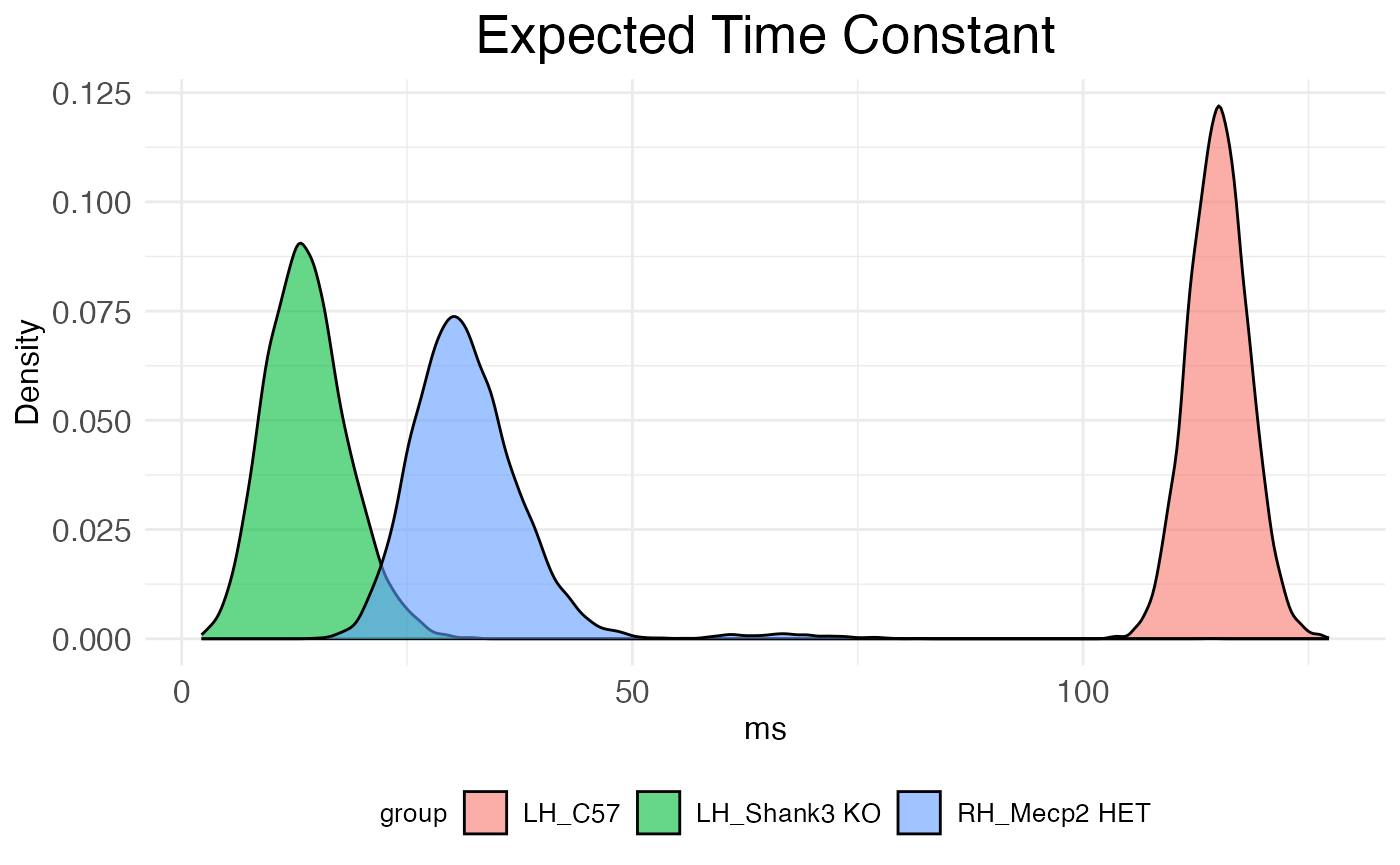
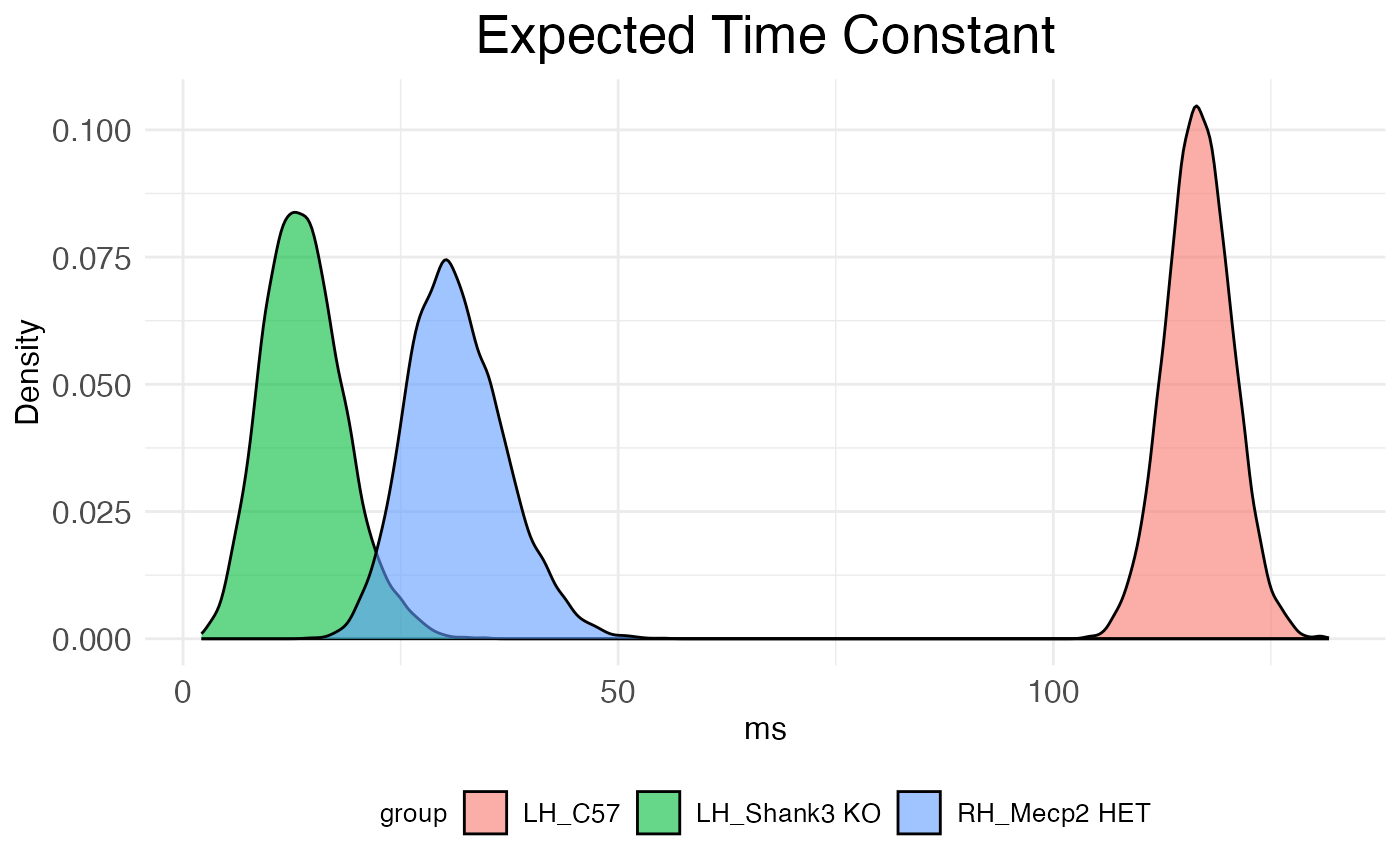
Backup

diff --git a/docs/articles/tutorial_tau_est_kilosort.html b/docs/articles/tutorial_tau_est_kilosort.html
@@ -642,12 +642,12 @@ simulation.</p>
 <div class="sourceCode" id="cb35"><pre class="downlit sourceCode r">
 <code class="sourceCode R"><span><span class="fu"><a href="https://rdrr.io/r/base/print.html" class="external-link">print</a></span><span class="op">(</span><span class="fu"><a href="https://rdrr.io/r/utils/head.html" class="external-link">head</a></span><span class="op">(</span><span class="va">autocorr_results</span><span class="op">$</span><span class="va">resamples</span><span class="op">)</span><span class="op">)</span></span></code></pre></div>
 <pre><code><span><span class="co">##   RH_Mecp2 HET LH_Shank3 KO   LH_C57</span></span>
-<span><span class="co">## 1     25.81198     9.218952 114.9198</span></span>
-<span><span class="co">## 2     30.41513    16.177649 116.2947</span></span>
-<span><span class="co">## 3     29.74146    10.877147 119.1372</span></span>
-<span><span class="co">## 4     40.10738    16.198680 117.7051</span></span>
-<span><span class="co">## 5     34.63773    11.615584 113.7221</span></span>
-<span><span class="co">## 6     27.57622     9.426164 113.8137</span></span></code></pre>
+<span><span class="co">## 1     25.04794    10.177543 117.9560</span></span>
+<span><span class="co">## 2     28.86232    16.646262 120.2335</span></span>
+<span><span class="co">## 3     30.15775     9.044957 123.9136</span></span>
+<span><span class="co">## 4     41.75591    17.323629 116.3069</span></span>
+<span><span class="co">## 5     33.58242    10.964003 115.5834</span></span>
+<span><span class="co">## 6     27.92527    10.291043 114.1699</span></span></code></pre>
 <p>The second is <strong>distribution_plot</strong>, a ggplot2 object
 visualizing the bootstrap distributions of tau for each covariate.</p>
 <div class="sourceCode" id="cb37"><pre class="downlit sourceCode r">
